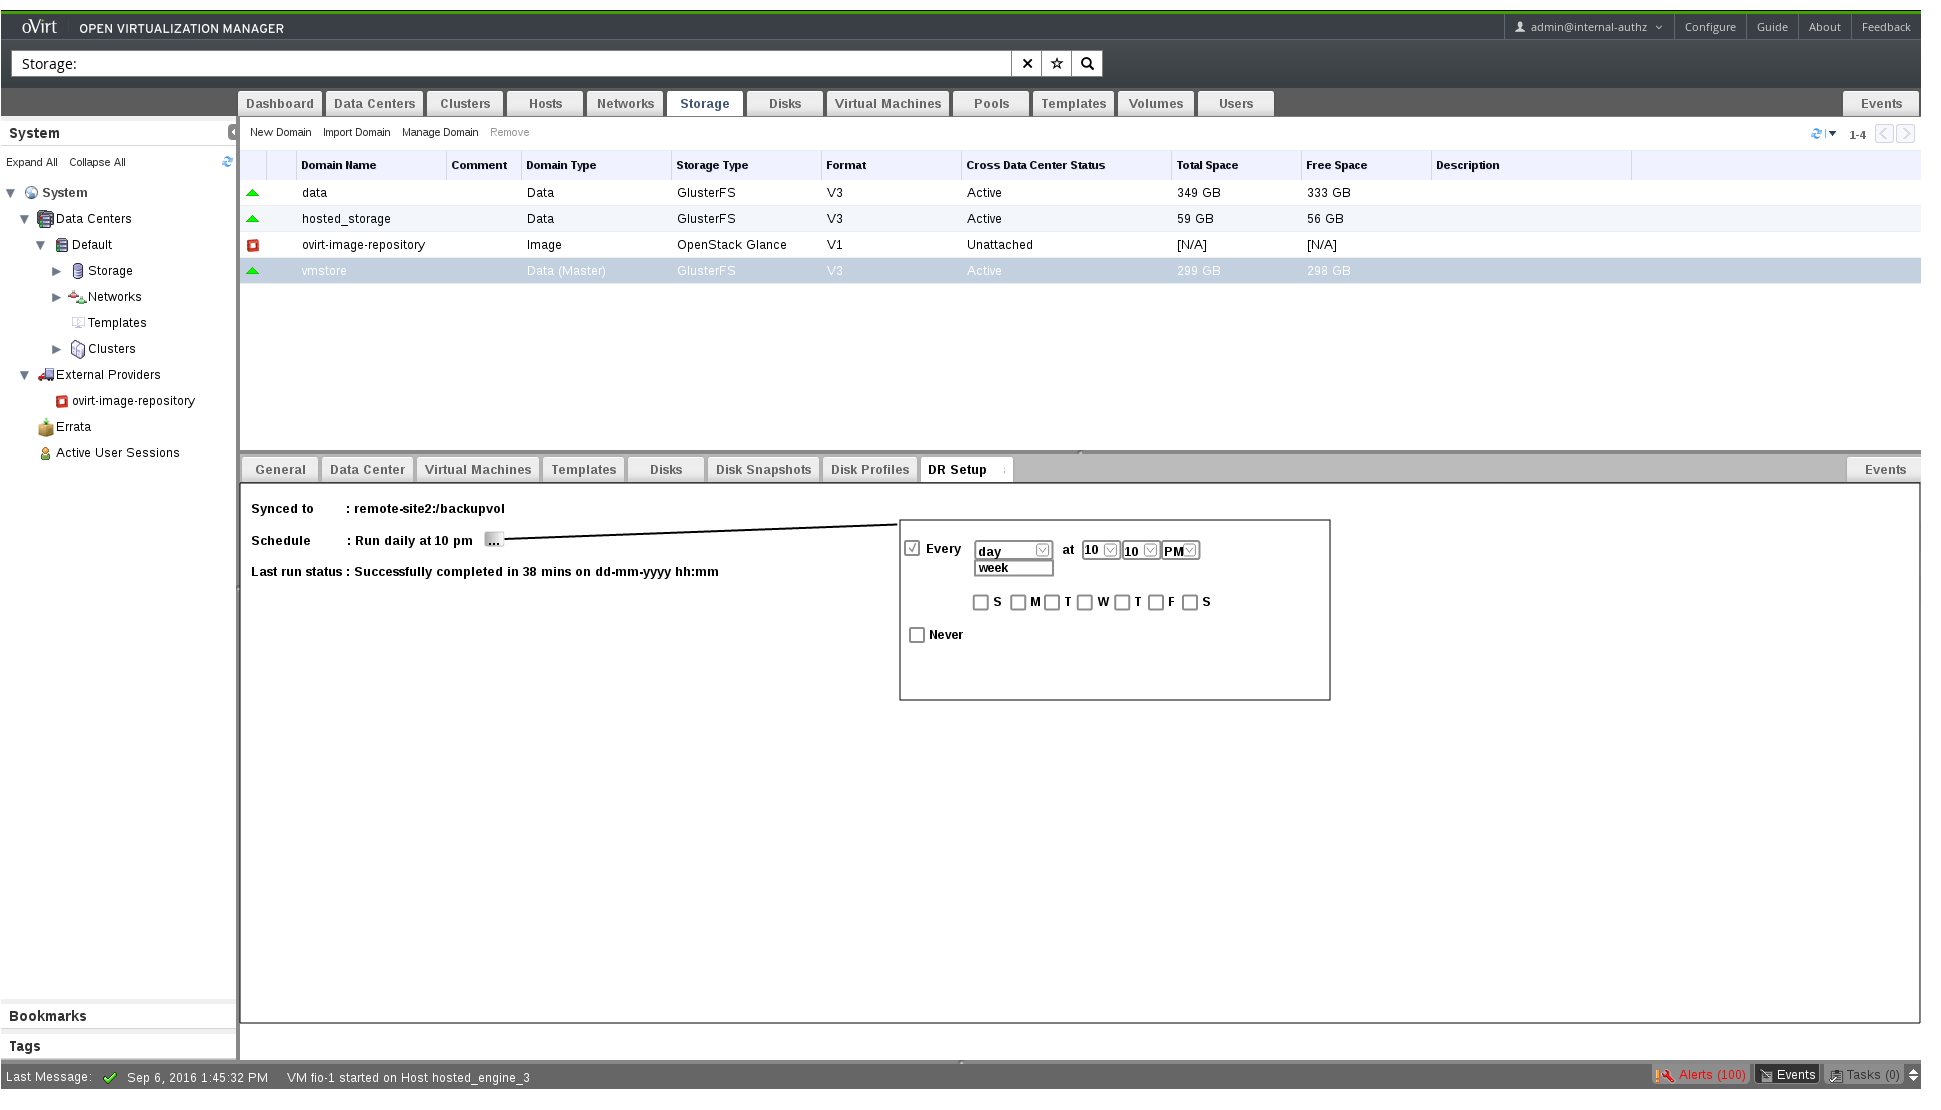
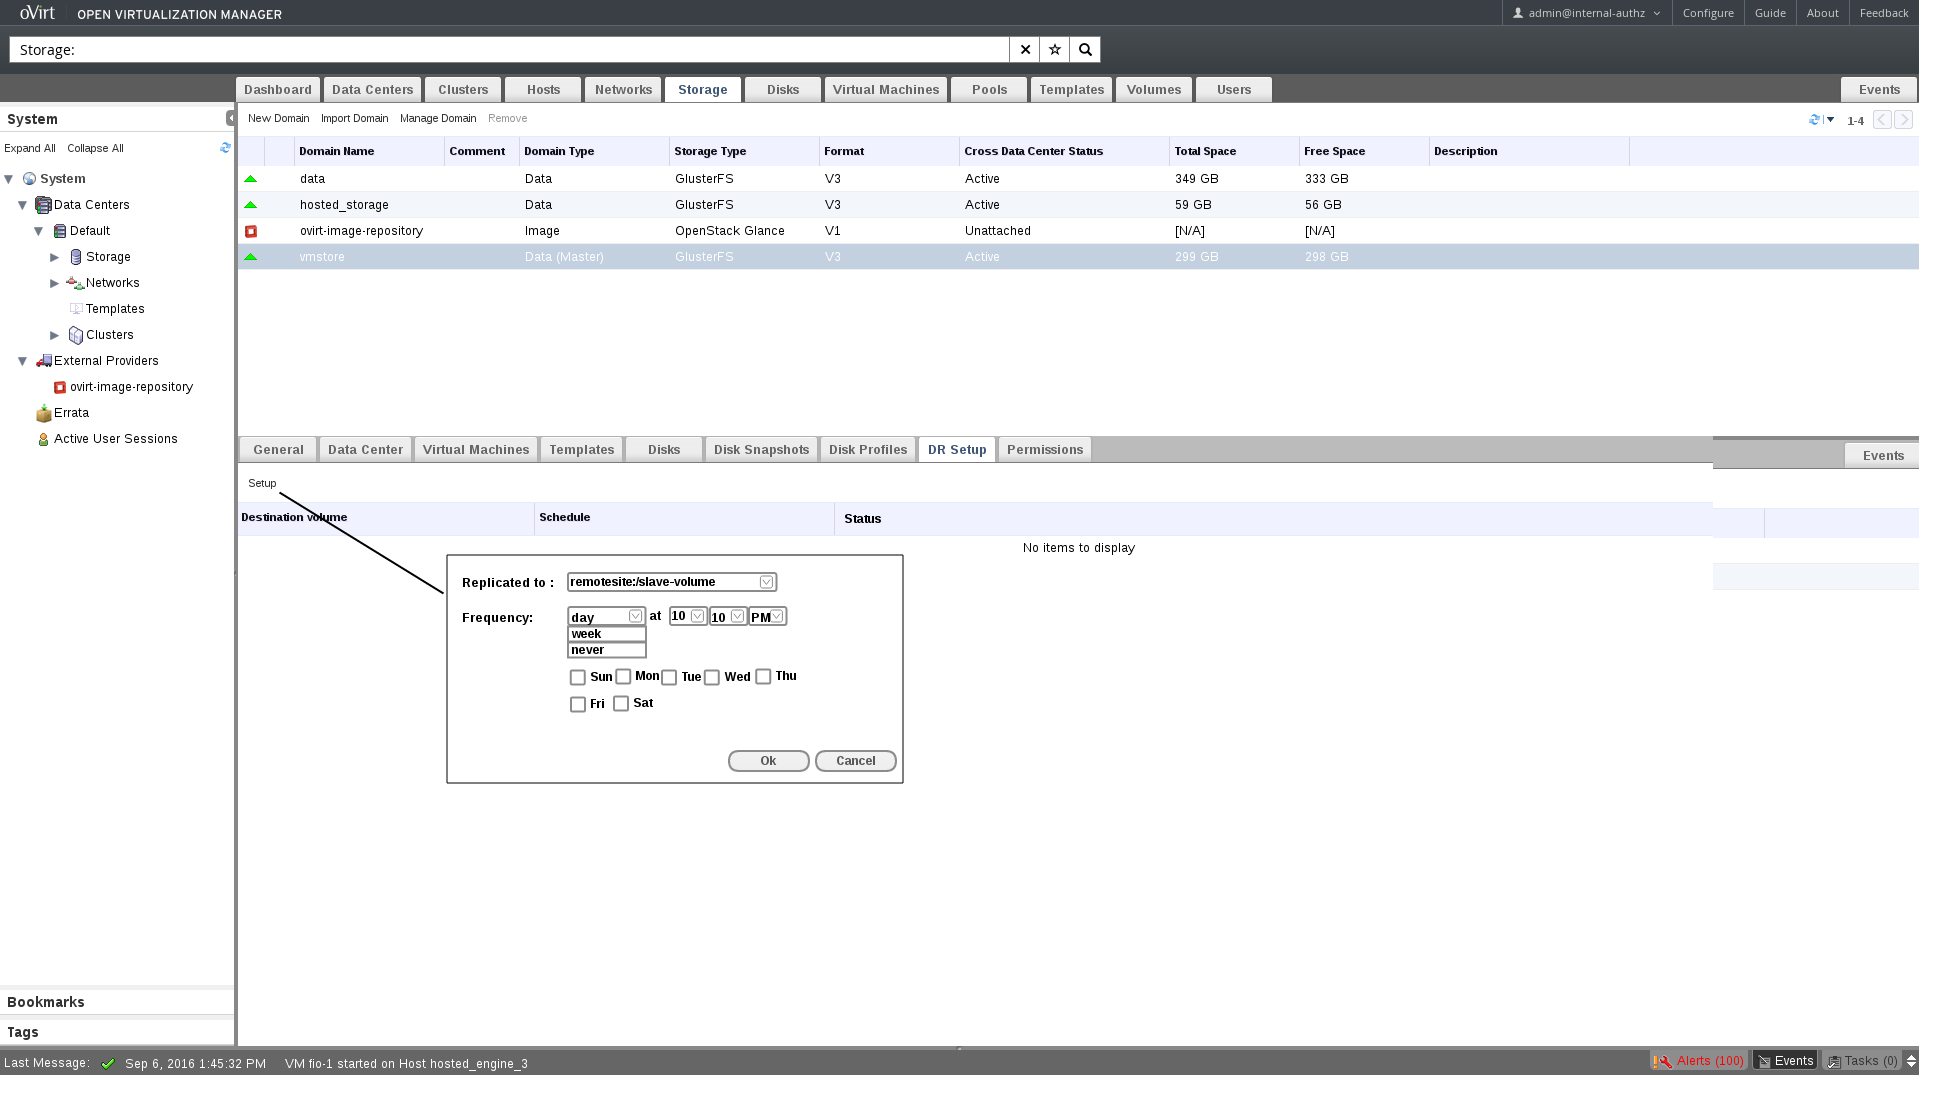
Updated mockup and design

diff --git a/source/develop/release-management/features/gluster/gluster-dr.html.md b/source/develop/release-management/features/gluster/gluster-dr.html.md
@@ -5,7 +5,7 @@ authors: Sahina Bose
 wiki_category: Feature|DR for gluster storage domains
 wiki_title: Features/Gluster DR
 wiki_revision_count: 122
-wiki_last_updated: 2015-10-14
+wiki_last_updated: 2016-12-09
 feature_name: Disaster recovery for gluster storage domains
 feature_modules: engine,gluster,geo-replication,storage
 feature_status: Design
@@ -89,31 +89,30 @@ To integrate this solution better into oVirt and provide users a seamless way of
 
 ### UX
 
-* Allow enabling sync for disaster recovery on storage domain. This will currently be available for gluster storage domains alone, but can be extended to cover other storage domain types later
+* Show a sub-tab for setting up data synchronization for disaster recovery on storage domain. This will currently be available for gluster storage domains alone, but can be extended to cover other storage domain types later
     - Change the path option to enable choosing gluster volume that's managed by oVirt
     - DR sync can be enabled only if the gluster volume is managed via oVirt. A warning will be displayed to user if the gluster volume is not managed by this instance of oVirt
 
 ![StorageDomain-DR](/images/wiki/storagedomain-dr.png)
 
-* If a gluster storage domain is enabled for sync, check that a geo-replication session has been created. If not, provide an alert that geo-replication session needs to be setup. Geo-replication session can be setup from the UI using the Geo-replication sub-tab under Gluster volumes. The **Create Geo-replication Session** will also be opened on clicking the suggestion provided in the alert
-
-![StorageDomain-DR-Alert](/images/wiki/storagedomain-dr-alert.png)
-
 * Create a sub-tab under Storage domain for **DR setup**
     - DR sub-tab only shown for glusterfs storage types
-    - Display the current schedule for sync, sync location and the last run status
-    - Provide a way for user to edit the schedule for sync. Clicking on the [...] button will open a dialog
+    - If the gluster storage domain is not linked to an oVirt managed gluster volume, an alert is shown in sub-tab that this feature cannot be used for selected storage domain.
+    - Display the current schedule for sync, sync location and the last run status. A storage domain can possibly be backed to multiple destinations, this will be listed in table here
+    - Provide a way for user to edit the schedule for sync. Clicking on an existing row and edit button will open the dialog in edit mode.
+    - Clicking on Setup will open the below dialog where user can select from existing geo-rep sessions for volume and setup the schedule for data synchronisation.
+        * If there are no geo-replication sessions created, instead of the drop down, an alert is shown that geo-replication session needs to be setup.A link will be provided for user to navigate to **Create Geo-replication Session**
 
 ![StorageDomain-DR-Setup](/images/wiki/storage-domain-dr-setup.png)
 
 ### Database changes
 
-* Extend the storage domain table `storage_domain_static` with following additional columns
-    - enable_sync boolean
+* Extend the storage domain table `storage_server_connections` with following additional columns
     - gluster_volume_id UUID *stores the gluster volume uuid if the gluster volume is managed by oVirt, this will allow to check and alert for geo-rep session*
 
 * Additional table `storage_domain_dr` with following columns
     - storage_domain_id uuid
+    - georep_session_id uuid
     - sync_schedule varchar *stores the cron expression for recurring schedule*
     - qrtz_job_id varchar *stores the quartz job created*
 
